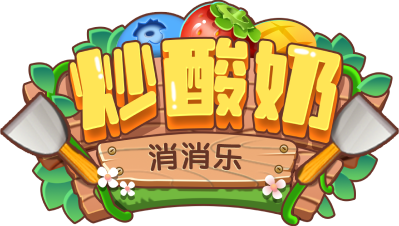
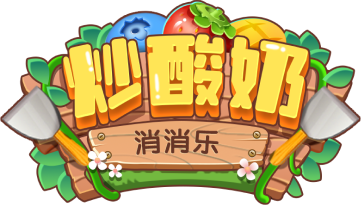
Improve loading page size.

diff --git a/src/app/app.component.scss b/src/app/app.component.scss
@@ -66,15 +66,17 @@
         content: '';
         @include size(100%);
         background-image: url(image-assets('banner.png'));
-        background-size: initial;
+        background-size: min(361px, 70vw);
         background-position: center 25%;
         position: absolute;
     }
 
     .progress-frame {
-        --width: 80vw;
+        --width: min(80vw, 480px);
         --height: calc(var(--width) * 0.089783);
         --border-width: 1vw;
+        --shadow-size: calc(var(--width) * 0.00375);
+        --padding: calc(var(--width) * 0.00625);
         width: var(--width);
         height: var(--height);
         position: absolute;
@@ -83,8 +85,8 @@
         border-radius: 99999vw;
         border: solid var(--border-width) #F1C175;
         background-color: #BC8544;
-        padding: 0.5vw;
-        box-shadow: 0.3vw 0.3vw 0.3vw #865020 inset;
+        padding: var(--padding);
+        box-shadow: var(--shadow-size) var(--shadow-size) var(--shadow-size) #865020 inset;
         animation: fix-shadow 100s infinite;
 
         &::before {
@@ -97,8 +99,8 @@
 
     .progress {
         --progress: 0;
-        width: calc(var(--progress) * 0.99);
-        height: calc(100% - 1vw);
+        width: calc(var(--progress) * 0.987);
+        height: calc(100% - var(--padding) * 2);
         transform: translateY(-100%);
         border-radius: 99999vw;
         position: absolute;
@@ -117,7 +119,7 @@
 
         &::after {
             --stroke: #{rgba(200, 255, 202, 0.3)};
-            --space: 1.5vw;
+            --space: calc(var(--width) * 0.01875);
             width: 120%;
             background-image: repeating-linear-gradient(114deg, var(--stroke) 0, var(--stroke) var(--space), transparent var(--space), transparent calc(var(--space) * 2));
             animation: progress 1.5s infinite linear;
